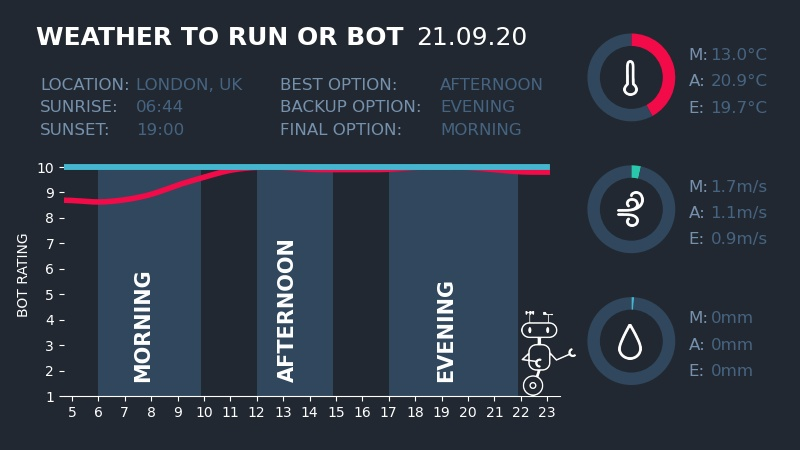
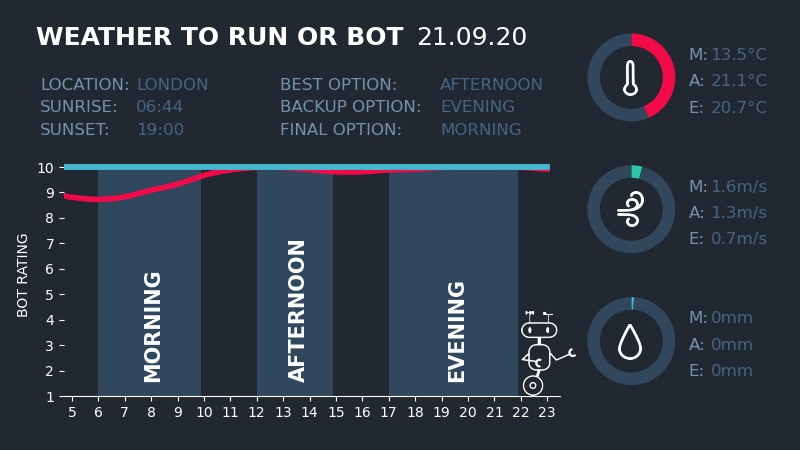
Fixed location on the dashboard and the location of the segment labels too

diff --git a/weather/forecast.py b/weather/forecast.py
@@ -68,7 +68,7 @@ def plot_scores(day, rankings, to_show):
     fig.text(0.045, 0.9, "Weather to run or bot".upper(), color='white', fontsize=18, fontweight='bold')
 
     fig.text(0.05, 0.8, "LOCATION:", color=colours.info_field, fontsize=12)
-    fig.text(0.17, 0.8, "LONDON, UK", color=colours.info_text, fontsize=12)
+    fig.text(0.17, 0.8, f"{list(day.location.keys())[0].upper()}", color=colours.info_text, fontsize=12)
     fig.text(0.05, 0.75, "SUNRISE:", color=colours.info_field, fontsize=12)
     fig.text(0.17, 0.75, f"{day.sunrise:%H:%M}", color=colours.info_text, fontsize=12)
     fig.text(0.05, 0.7, "SUNSET:", color=colours.info_field, fontsize=12)
@@ -88,7 +88,7 @@ def plot_scores(day, rankings, to_show):
         rect = patches.Rectangle((x, 1), rect_width, 9, edgecolor='none', facecolor=colours.segments)
         ax.add_patch(rect)
 
-        ax.text(((seg.end_time.hour + seg.start_time.hour) / 2) - 0.2,
+        ax.text(((seg.end_time.hour + seg.start_time.hour) / 2) + 0.2,
                 1.7,
                 seg.name.upper(),
                 color='white',
